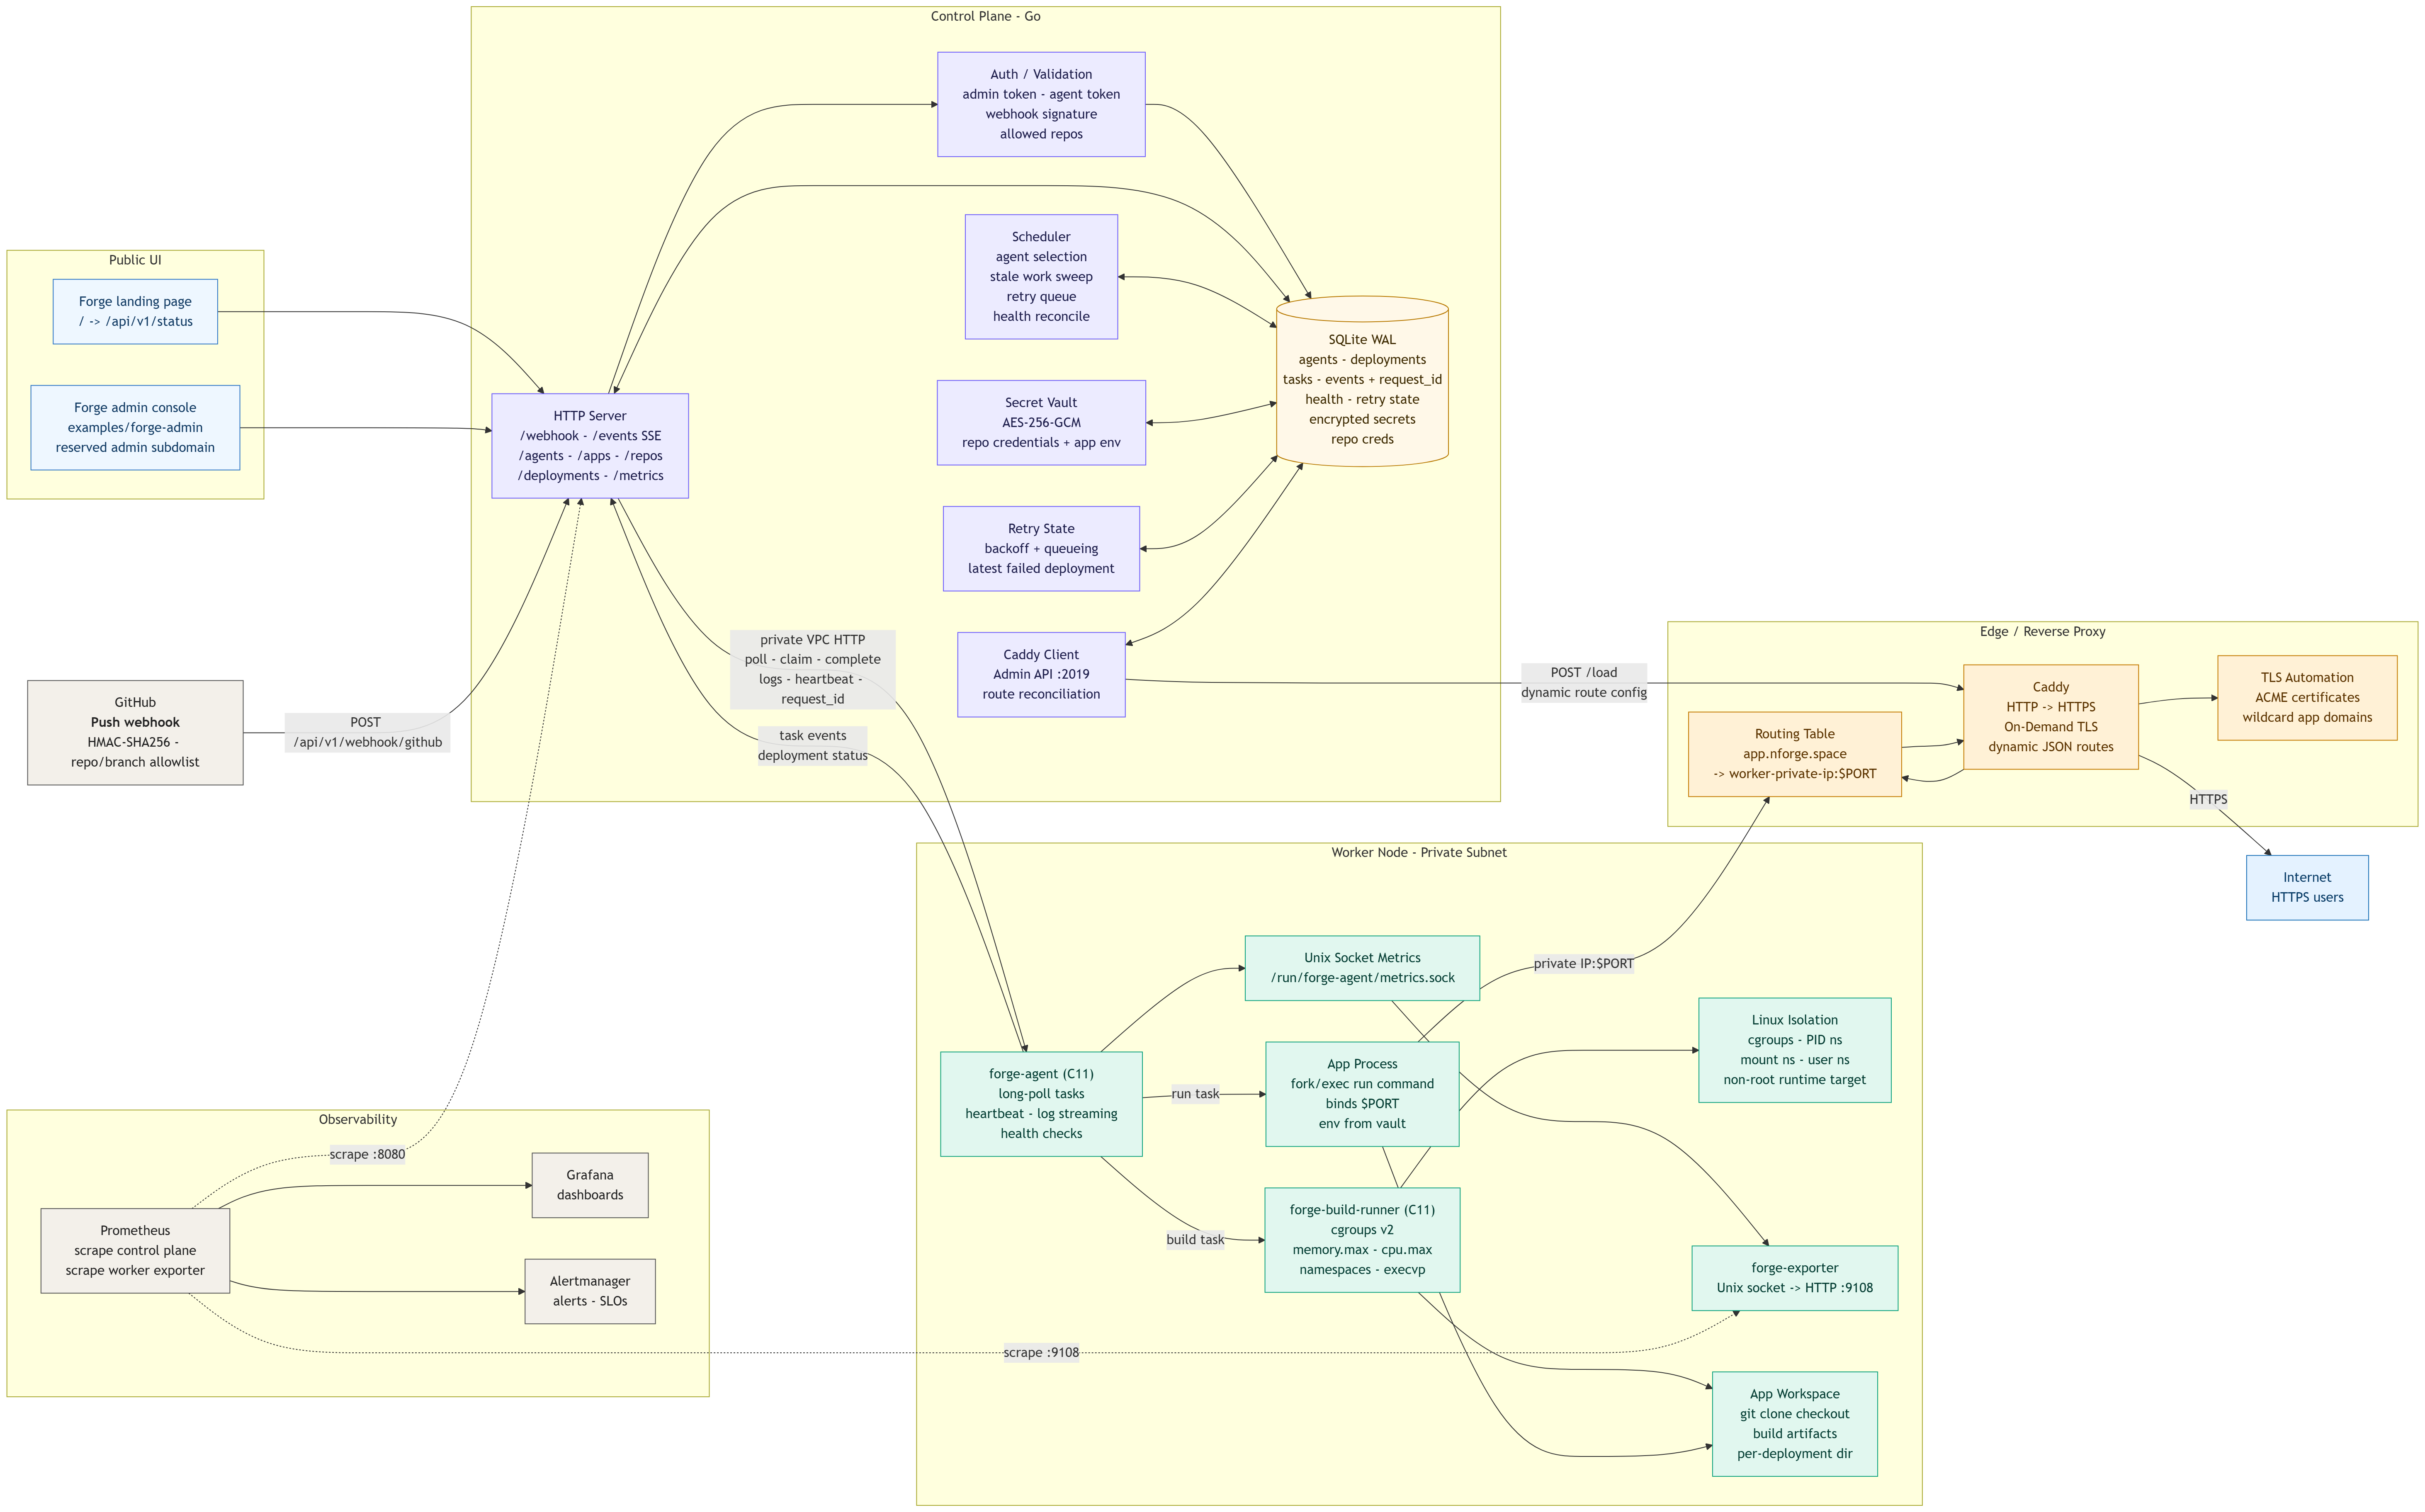
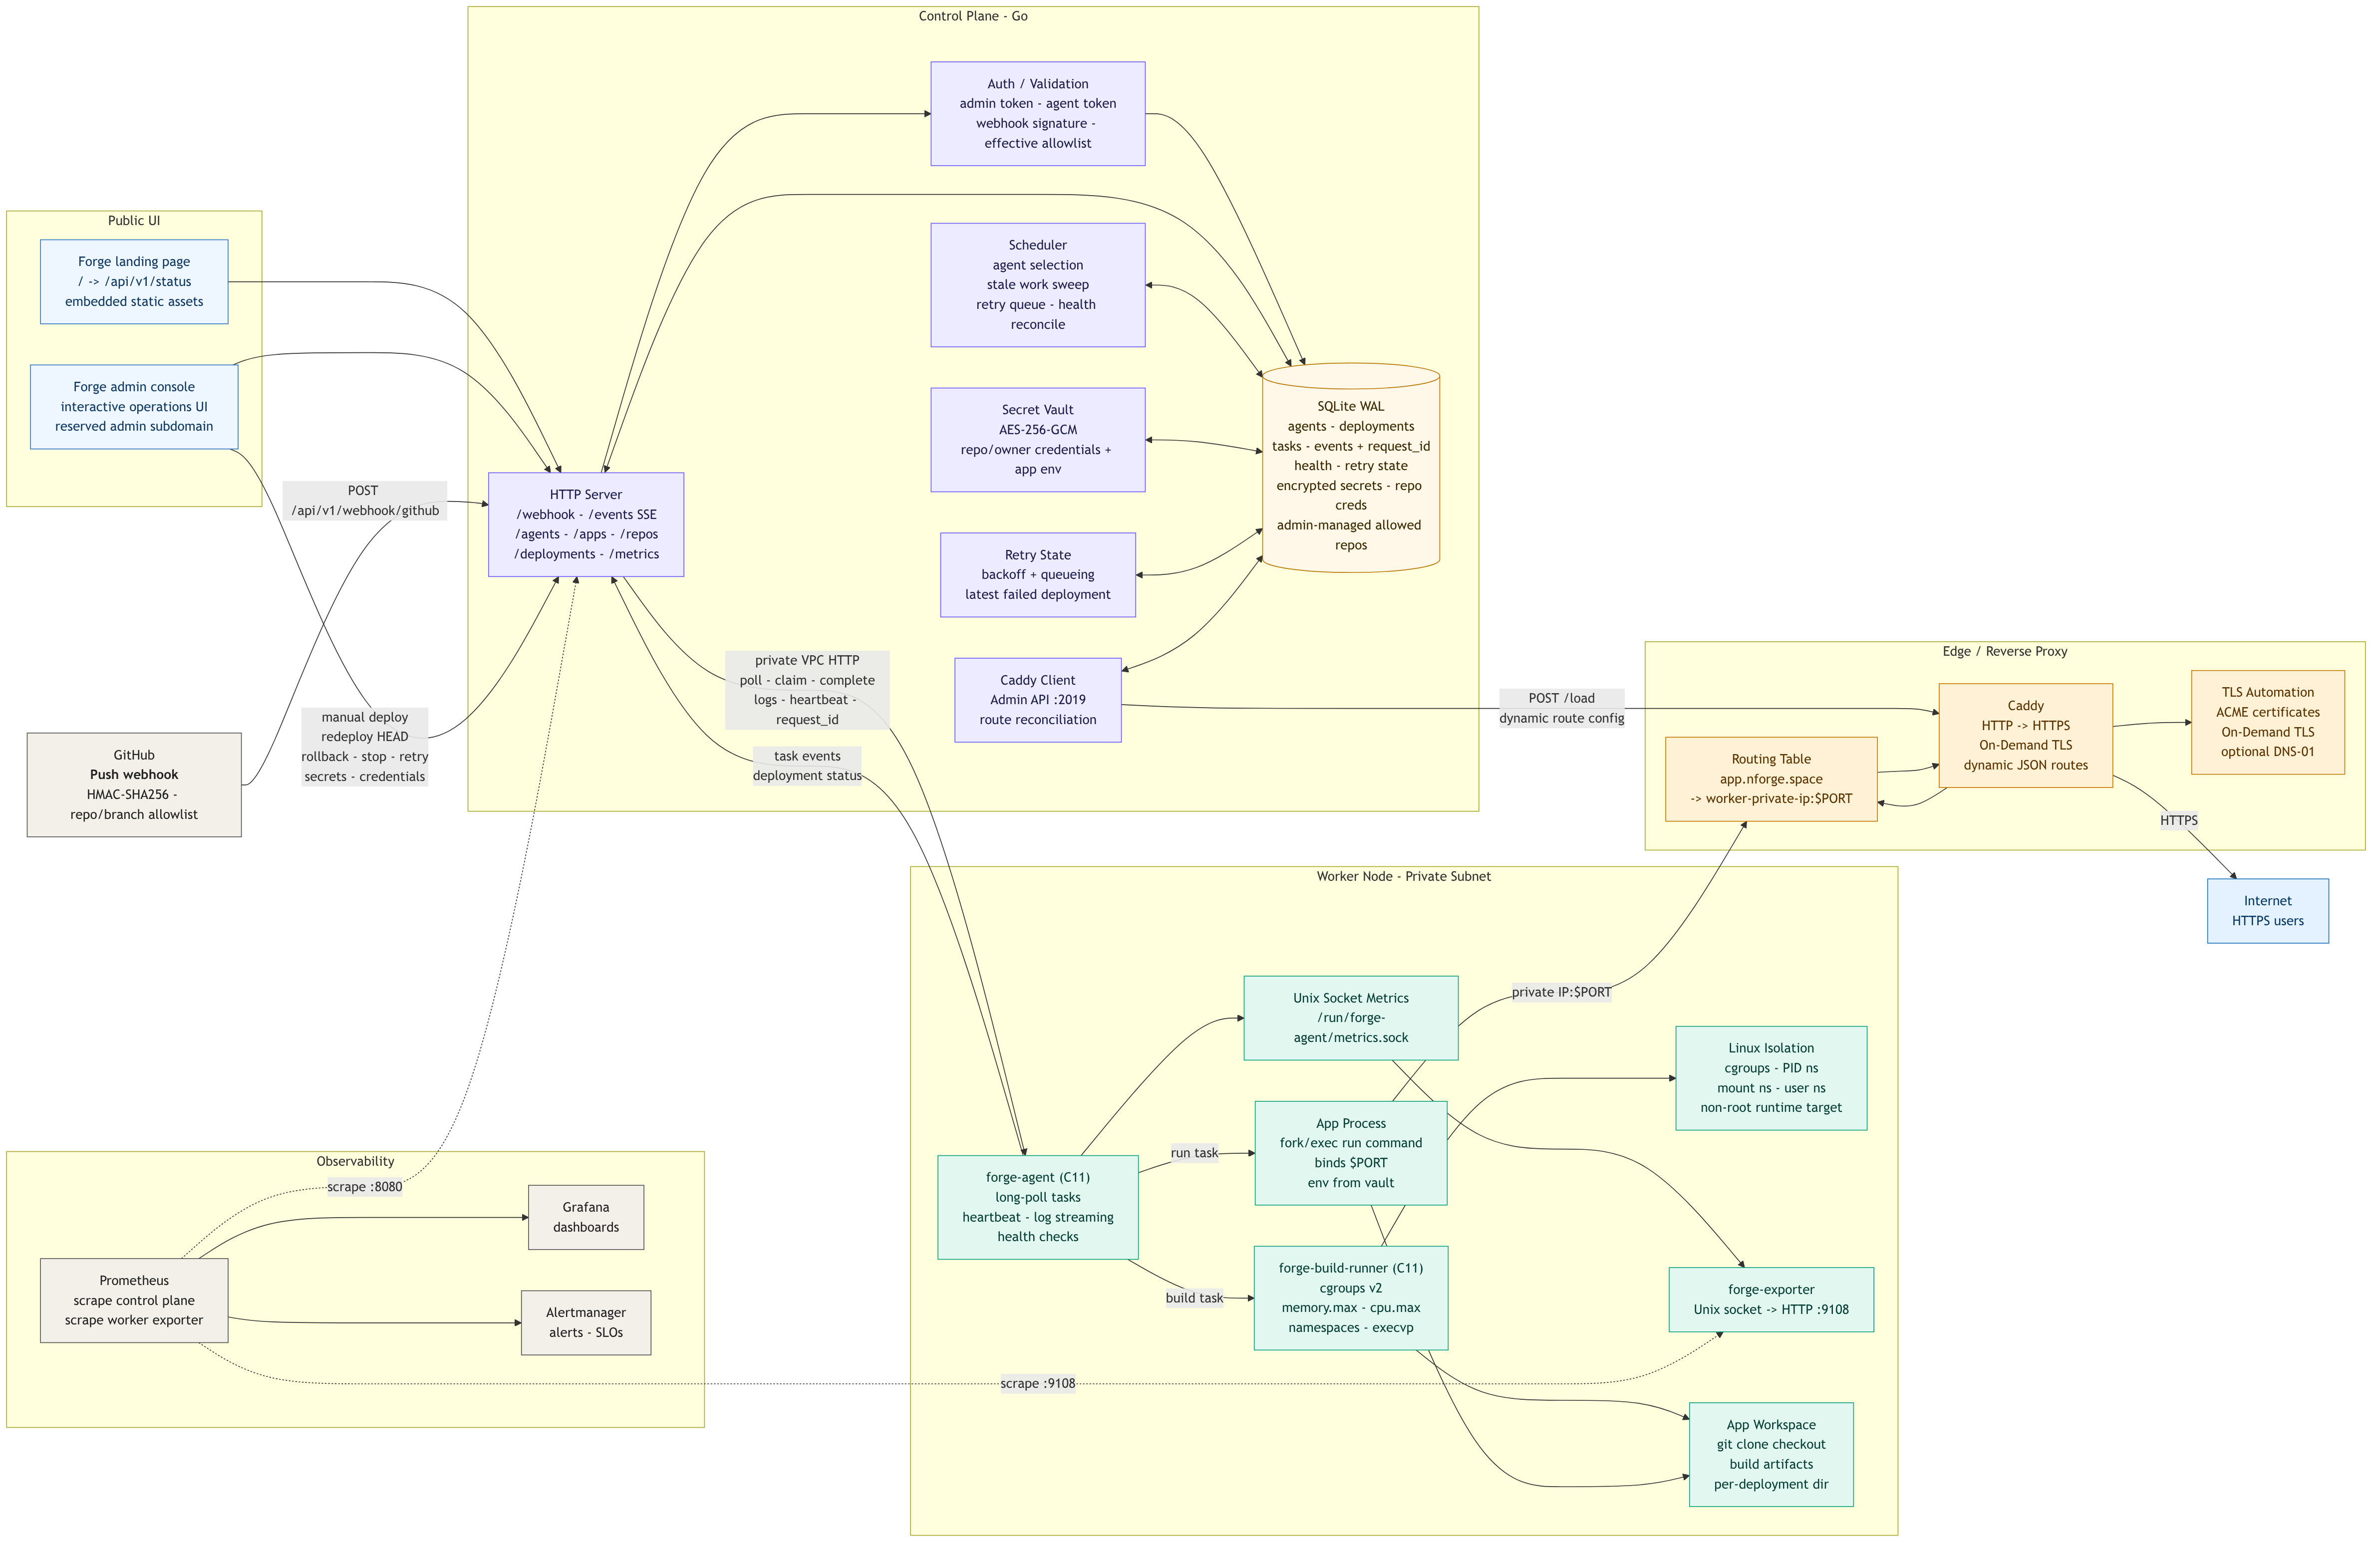
update documentation

diff --git a/README.md b/README.md
@@ -102,7 +102,7 @@ GitHub push
     ▼
 POST /api/v1/webhook/github
     │  verify X-Hub-Signature-256 (HMAC-SHA256)
-    │  check repo in FORGE_ALLOWED_REPOS
+    │  check repo in the effective allowlist
     │  check branch in FORGE_ALLOWED_BRANCHES
     │  validate commit SHA format (40 or 64 hex chars)
     │  git clone --depth=1 -> parse forge.yaml
@@ -157,6 +157,8 @@ deployments row: status=pending
 ```
 
 If health checks fail: agent kills the process (SIGTERM -> 5s -> SIGKILL), reports `failed`, control plane rolls back the Caddy route to the previous running deployment.
+
+Manual deployments use the same manifest parsing and scheduling path. `POST /api/v1/deployments` validates the repo and branch, resolves HEAD inside the control plane when no commit is supplied, parses `forge.yaml`, creates a pending deployment, and returns the resolved deployment view. Rollbacks create a new deployment from the selected deployment's stored `repo_url` and `commit_sha`, then re-parse `forge.yaml` at that commit.
 
 ---
 
@@ -337,10 +339,15 @@ All admin endpoints require `Authorization: Bearer $FORGE_ADMIN_TOKEN`. Agent en
 | `DELETE` | `/api/v1/deployments/{id}` | admin | Cancel pending work or stop a running deployment |
 | `PUT` | `/api/v1/apps/{app}/secrets/{key}` | admin | Encrypt and store a secret |
 | `GET` | `/api/v1/apps/{app}/secrets` | admin | List secret key names (not values) |
-| `GET` | `/api/v1/repos` | admin | List allowed repos and credential status |
+| `GET` | `/api/v1/repos` | admin | List allowed repos, source, credential status, and credential scope |
+| `POST` | `/api/v1/repos` | admin | Add an admin-managed allowed repo |
+| `DELETE` | `/api/v1/repos/{owner}/{repo}` | admin | Remove an admin-managed allowed repo |
 | `PUT` | `/api/v1/repos/{owner}/{repo}/credential` | admin | Store an encrypted GitHub repo token |
 | `GET` | `/api/v1/repos/{owner}/{repo}/credential` | admin | Check whether a repo credential exists |
 | `DELETE` | `/api/v1/repos/{owner}/{repo}/credential` | admin | Delete a repo credential |
+| `PUT` | `/api/v1/repos/{owner}/credential` | admin | Store an encrypted GitHub token for all allowed repos under an owner/org |
+| `GET` | `/api/v1/repos/{owner}/credential` | admin | Check whether an owner/org credential exists |
+| `DELETE` | `/api/v1/repos/{owner}/credential` | admin | Delete an owner/org credential |
 | `GET` | `/healthz` | none | Control plane health check |
 | `GET` | `/metrics` | loopback or admin | Prometheus metrics |
 
@@ -354,28 +361,44 @@ All admin endpoints require `Authorization: Bearer $FORGE_ADMIN_TOKEN`. Agent en
 | `FORGE_AGENT_TOKEN` | YES | — | Shared token for agent ↔ control plane authentication |
 | `FORGE_ADMIN_TOKEN` | YES | — | Token for admin API endpoints |
 | `FORGE_GITHUB_WEBHOOK_SECRET` | YES | — | GitHub webhook secret for HMAC-SHA256 verification |
-| `FORGE_ALLOWED_REPOS` | YES | — | Comma-separated `owner/repo` allowlist |
+| `FORGE_ALLOWED_REPOS` | YES | — | Comma-separated startup `owner/repo` allowlist; admin-managed repos can be added later through the admin API/UI |
 | `FORGE_ALLOWED_BRANCHES` | — | `main` | Comma-separated branch allowlist |
 | `FORGE_ADMIN_APP_NAME` | — | `admin` | App name reserved for the Forge admin console |
 | `FORGE_ADMIN_APP_REPO` | — | — | `owner/repo` allowed to deploy the reserved `admin` subdomain |
 | `FORGE_BASE_DOMAIN` | — | `forge.localhost` | Base domain for app subdomains |
 | `FORGE_ADDR` | — | `:8080` | Control plane listen address |
 | `FORGE_DB_PATH` | — | `data/forge.db` | SQLite database path |
+| `FORGE_WORK_DIR` | — | `data/work` | Control-plane temporary clone/work directory |
 | `FORGE_CADDY_ADMIN_URL` | — | — | Caddy Admin API URL (e.g. `http://127.0.0.1:2019`) |
+| `FORGE_ONLINE_WINDOW` | — | `15s` | Agent heartbeat freshness window |
+| `FORGE_SCHEDULER_TICK` | — | `2s` | Scheduler polling interval |
+| `FORGE_TASK_POLL_TIMEOUT` | — | `25s` | Agent long-poll timeout |
+| `FORGE_DEPLOYMENT_LEASE_TIMEOUT` | — | `15m` | Timeout for stale deployment work reconciliation |
+| `FORGE_TASK_LEASE_TIMEOUT` | — | `15m` | Timeout for stale in-progress task reconciliation |
 | `FORGE_APP_PORT_START` | — | `20000` | Start of app port range |
 | `FORGE_APP_PORT_END` | — | `39999` | End of app port range |
-| `FORGE_AGENT_TOKEN` | YES | — | Agent: token to authenticate with control plane |
+| `FORGE_ALLOW_LOCAL_REPOS` | — | `false` | Test-only local repository clone support |
+| `FORGE_MAX_SCHEDULE_BATCH` | — | `20` | Max pending deployments considered per scheduler tick |
+| `FORGE_MAX_TASKS_PER_AGENT` | — | `1` | Max active tasks assigned to one agent |
 | `FORGE_CONTROL_PLANE_URL` | — | `http://127.0.0.1:8080` | Agent: control plane URL |
+| `FORGE_AGENT_ID` | — | hostname | Agent: stable worker ID |
+| `FORGE_AGENT_ADDRESS` | — | auto-detected | Agent: address Caddy uses to reach app ports |
+| `FORGE_AGENT_APP_ROOT` | — | `/var/lib/forge-agent/apps` | Agent: app workspace root |
 | `FORGE_RUNNER_PATH` | — | `./bin/forge-build-runner` | Agent: path to build runner binary |
-| `FORGE_REQUIRE_ISOLATION` | — | `false` (`true` in prod) | Agent: fail build if Linux namespaces unavailable |
+| `FORGE_REQUIRE_ISOLATION` | — | `true` | Agent: fail build if Linux namespaces unavailable |
 | `FORGE_BUILD_TIMEOUT` | — | `0` (disabled) | Agent: max build time in seconds |
 | `FORGE_AGENT_POLL_SECONDS` | — | `2` | Agent: task poll interval |
+| `FORGE_METRICS_SOCKET` | — | `/tmp/forge-agent-metrics.sock` | Agent: Unix socket for worker metrics |
+| `FORGE_EXPORTER_ADDR` | — | `:9108` | Exporter listen address |
+| `FORGE_AGENT_METRICS_SOCKET` | — | `/tmp/forge-agent-metrics.sock` | Exporter source Unix socket |
 
 ---
 
 ### Private Repositories
 
-Forge stores private repository credentials encrypted at rest. Register a credential for an allowed repo:
+Forge stores private repository credentials encrypted at rest. Public repositories clone without credentials. Private repositories can use either a repo-level credential for one allowed `owner/repo`, or an owner-level credential for every allowed repository under that owner/org.
+
+Register a repo-level credential:
 
 ```sh
 curl -X PUT "https://$FORGE_BASE_DOMAIN/api/v1/repos/OWNER/REPO/credential" \
@@ -383,6 +406,17 @@ curl -X PUT "https://$FORGE_BASE_DOMAIN/api/v1/repos/OWNER/REPO/credential" \
   -H "Content-Type: application/json" \
   -d '{"token":"github_pat_..."}'
 ```
+
+Register an owner-level credential:
+
+```sh
+curl -X PUT "https://$FORGE_BASE_DOMAIN/api/v1/repos/OWNER/credential" \
+  -H "Authorization: Bearer $FORGE_ADMIN_TOKEN" \
+  -H "Content-Type: application/json" \
+  -d '{"token":"github_pat_..."}'
+```
+
+Credential lookup is `owner/repo` first, then `owner`, then unauthenticated clone. Existing repo-level credentials continue to work and override owner-level credentials.
 
 The clean `https://github.com/OWNER/REPO.git` URL remains in deployments and task payloads. Agents request the credential only when they need to clone/fetch the assigned task, and the token is passed to `git` through `GIT_ASKPASS`, not through command arguments.
 

diff --git a/docs/testing.md b/docs/testing.md
@@ -12,6 +12,13 @@ go vet ./...
 ./bin/forge-build-runner --require-isolation --workdir /tmp --cgroup strict-smoke -- /bin/sh -lc /bin/true
 ```
 
+For closer CI parity, run these if the tools are installed locally:
+
+```sh
+golangci-lint run --timeout=5m
+govulncheck ./...
+```
+
 Run the local end-to-end harness:
 
 ```sh
@@ -24,6 +31,10 @@ Security checks covered by unit/E2E tests:
 
 - Control-plane startup fails if required tokens, webhook secret, master key, or repository allowlist are missing.
 - GitHub webhooks require `X-Hub-Signature-256`, `X-GitHub-Event: push`, an allowed `owner/repo`, an allowed branch, and a hex commit SHA.
+- Manual deployments reject unknown repos/branches, resolve HEAD server-side, and do not create a deployment if manifest cloning fails.
+- Rollbacks create a new deployment from the source deployment's stored `repo_url` and `commit_sha`, then re-parse `forge.yaml` at that commit.
+- Repository credentials can be stored at repo or owner/org scope; repo-level credentials override owner-level credentials, and neither logs nor task payload APIs expose plaintext tokens.
+- Admin-managed allowed repos are stored separately from startup `FORGE_ALLOWED_REPOS`; config-sourced repos remain read-only through the API/UI.
 - Deployments use dynamically allocated app ports from `20000-39999`.
 - `forge.yaml` parsing rejects unknown fields and accepts normal quoted YAML values.
 - Production worker builds require Linux namespace isolation instead of falling back to plain `fork()`.
@@ -62,5 +73,5 @@ ssh ubuntu@CONTROL_PLANE_PUBLIC_IP 'curl -fsS http://WORKER_PRIVATE_IP:9108/metr
 - Invalid health path: run task should enter `failed`.
 - Stopped worker: new deployments remain `pending` until an agent comes back online.
 - Unsigned webhook: request should return `401`.
-- Repo not in `FORGE_ALLOWED_REPOS`: request should return `403`.
+- Repo not in the effective allowlist (`FORGE_ALLOWED_REPOS` plus admin-managed allowed repos): request should return `403`.
 - Unsafe commit SHA such as `--help`: request should return `400`.

diff --git a/docs/runtime-model.md b/docs/runtime-model.md
@@ -25,11 +25,11 @@ run:
 
 Do not add every application package to the Forge Ansible playbook. The playbook should install runtime managers and safe baseline tools, not each app's libraries.
 
-The worker service runs as the unprivileged `forge` user. Build and run commands still execute shell defined by the application repository, so only repositories listed in `FORGE_ALLOWED_REPOS` should be allowed to trigger deployments.
+The worker service runs as the unprivileged `forge` user. Build and run commands still execute shell defined by the application repository, so only repositories in the effective allowlist should be allowed to trigger deployments. The effective allowlist is the startup `FORGE_ALLOWED_REPOS` set plus admin-managed repositories stored in the control-plane database.
 The systemd unit also denies access to common instance metadata addresses, so application commands should not be able to read cloud metadata from the worker.
-Production workers set `FORGE_REQUIRE_ISOLATION=true`, which makes build tasks fail closed if the build runner cannot create Linux namespaces.
+Workers default to `FORGE_REQUIRE_ISOLATION=true`, which makes build tasks fail closed if the build runner cannot create Linux namespaces.
 
-The control plane now also serves a public landing page and `/api/v1/status`, stores encrypted repo credentials per allowed `owner/repo`, and reserves the `admin` subdomain for the bundled Forge admin console when `FORGE_ADMIN_APP_REPO` is configured.
+The control plane also serves a public landing page and `/api/v1/status`, stores encrypted repo credentials at repo or owner/org scope, and reserves the `admin` subdomain for the bundled Forge admin console when `FORGE_ADMIN_APP_REPO` is configured. Credential lookup tries `owner/repo` first, then `owner`, then unauthenticated clone for public repositories.
 
 ## Ports
 

diff --git a/docs/aws-deploy.md b/docs/aws-deploy.md
@@ -374,7 +374,7 @@ ssh -i "$SSH_KEY" \
 ## 10. GitHub End-To-End Test
 
 The first GitHub E2E can use a public repository. Private repositories are supported after you register
-an encrypted repo credential through the admin API:
+an encrypted repo or owner credential through the admin API or admin console:
 
 ```sh
 curl -X PUT "https://BASE_DOMAIN/api/v1/repos/OWNER/REPO/credential" \
@@ -383,7 +383,7 @@ curl -X PUT "https://BASE_DOMAIN/api/v1/repos/OWNER/REPO/credential" \
   -d '{"token":"github_pat_..."}'
 ```
 
-The repository still must be listed in `forge_allowed_repos`.
+Use `/api/v1/repos/OWNER/credential` instead to cover every allowed repo under the same owner/org. A repo-level credential overrides an owner-level credential. The repository still must be allowed: either listed in `forge_allowed_repos` at startup or added later through the admin console/API.
 
 The bundled admin console lives in `examples/forge-admin`. To deploy it, publish that repository, set `FORGE_ADMIN_APP_REPO` (or `forge_admin_app_repo` in Ansible vars) to that repo, and deploy an app whose `forge.yaml` uses `name: admin`.
 

diff --git a/docs/runbooks/deployment-failure.md b/docs/runbooks/deployment-failure.md
@@ -23,7 +23,9 @@
    `curl -X PUT -H "Authorization: Bearer $FORGE_ADMIN_TOKEN" -H "Content-Type: application/json" -d '{"value":"..."}' http://CONTROL_PLANE:8080/api/v1/apps/APP/secrets/KEY`
 3. If the deployment was marked failed with retryable state, requeue it directly:
    `curl -X POST -H "Authorization: Bearer $FORGE_ADMIN_TOKEN" http://CONTROL_PLANE:8080/api/v1/deployments/DEPLOYMENT_ID/retry`
-4. Push a new commit to trigger a fresh deployment.
+4. To redeploy without a new commit, use the admin console's Redeploy HEAD action or call `POST /api/v1/deployments` with the repo and branch.
+5. To return to a previous commit, use the admin console's Rollback action or call `POST /api/v1/deployments/DEPLOYMENT_ID/rollback`.
+6. Push a new commit to trigger a fresh deployment when the fix lives in source control.
 
 ## Prevention
 

diff --git a/docs/oci-deploy.md b/docs/oci-deploy.md
@@ -176,7 +176,7 @@ forge_allowed_branches:
 
 The control plane intentionally refuses to start without secrets and at least one allowed repository.
 
-The bundled admin console lives in `examples/forge-admin`. To deploy it on OCI, publish that repository, set `forge_admin_app_repo` in your Ansible vars to that repo, and deploy an app whose `forge.yaml` uses `name: admin`. Private repository credentials are still registered through the control plane admin API after the deploy is up.
+The bundled admin console lives in `examples/forge-admin`. To deploy it on OCI, publish that repository, set `forge_admin_app_repo` in your Ansible vars to that repo, and deploy an app whose `forge.yaml` uses `name: admin`. Private repository credentials can be registered through the admin console or control-plane admin API after the deploy is up. Repo-level credentials cover one `owner/repo`; owner-level credentials cover every allowed repo under that owner/org.
 
 ## 4. Ansible
 

diff --git a/docs/runbooks/node-failure.md b/docs/runbooks/node-failure.md
@@ -5,6 +5,7 @@
 - `ForgeNoOnlineAgents` alert fires.
 - `/metrics` on the control plane reports `forge_agents_online 0`.
 - Pending deployments remain in `pending` and no build tasks are claimed.
+- Existing running deployments may show unhealthy observations such as `assigned agent is offline`, but they should not be marked failed solely because the agent missed heartbeats.
 
 ## Triage
 